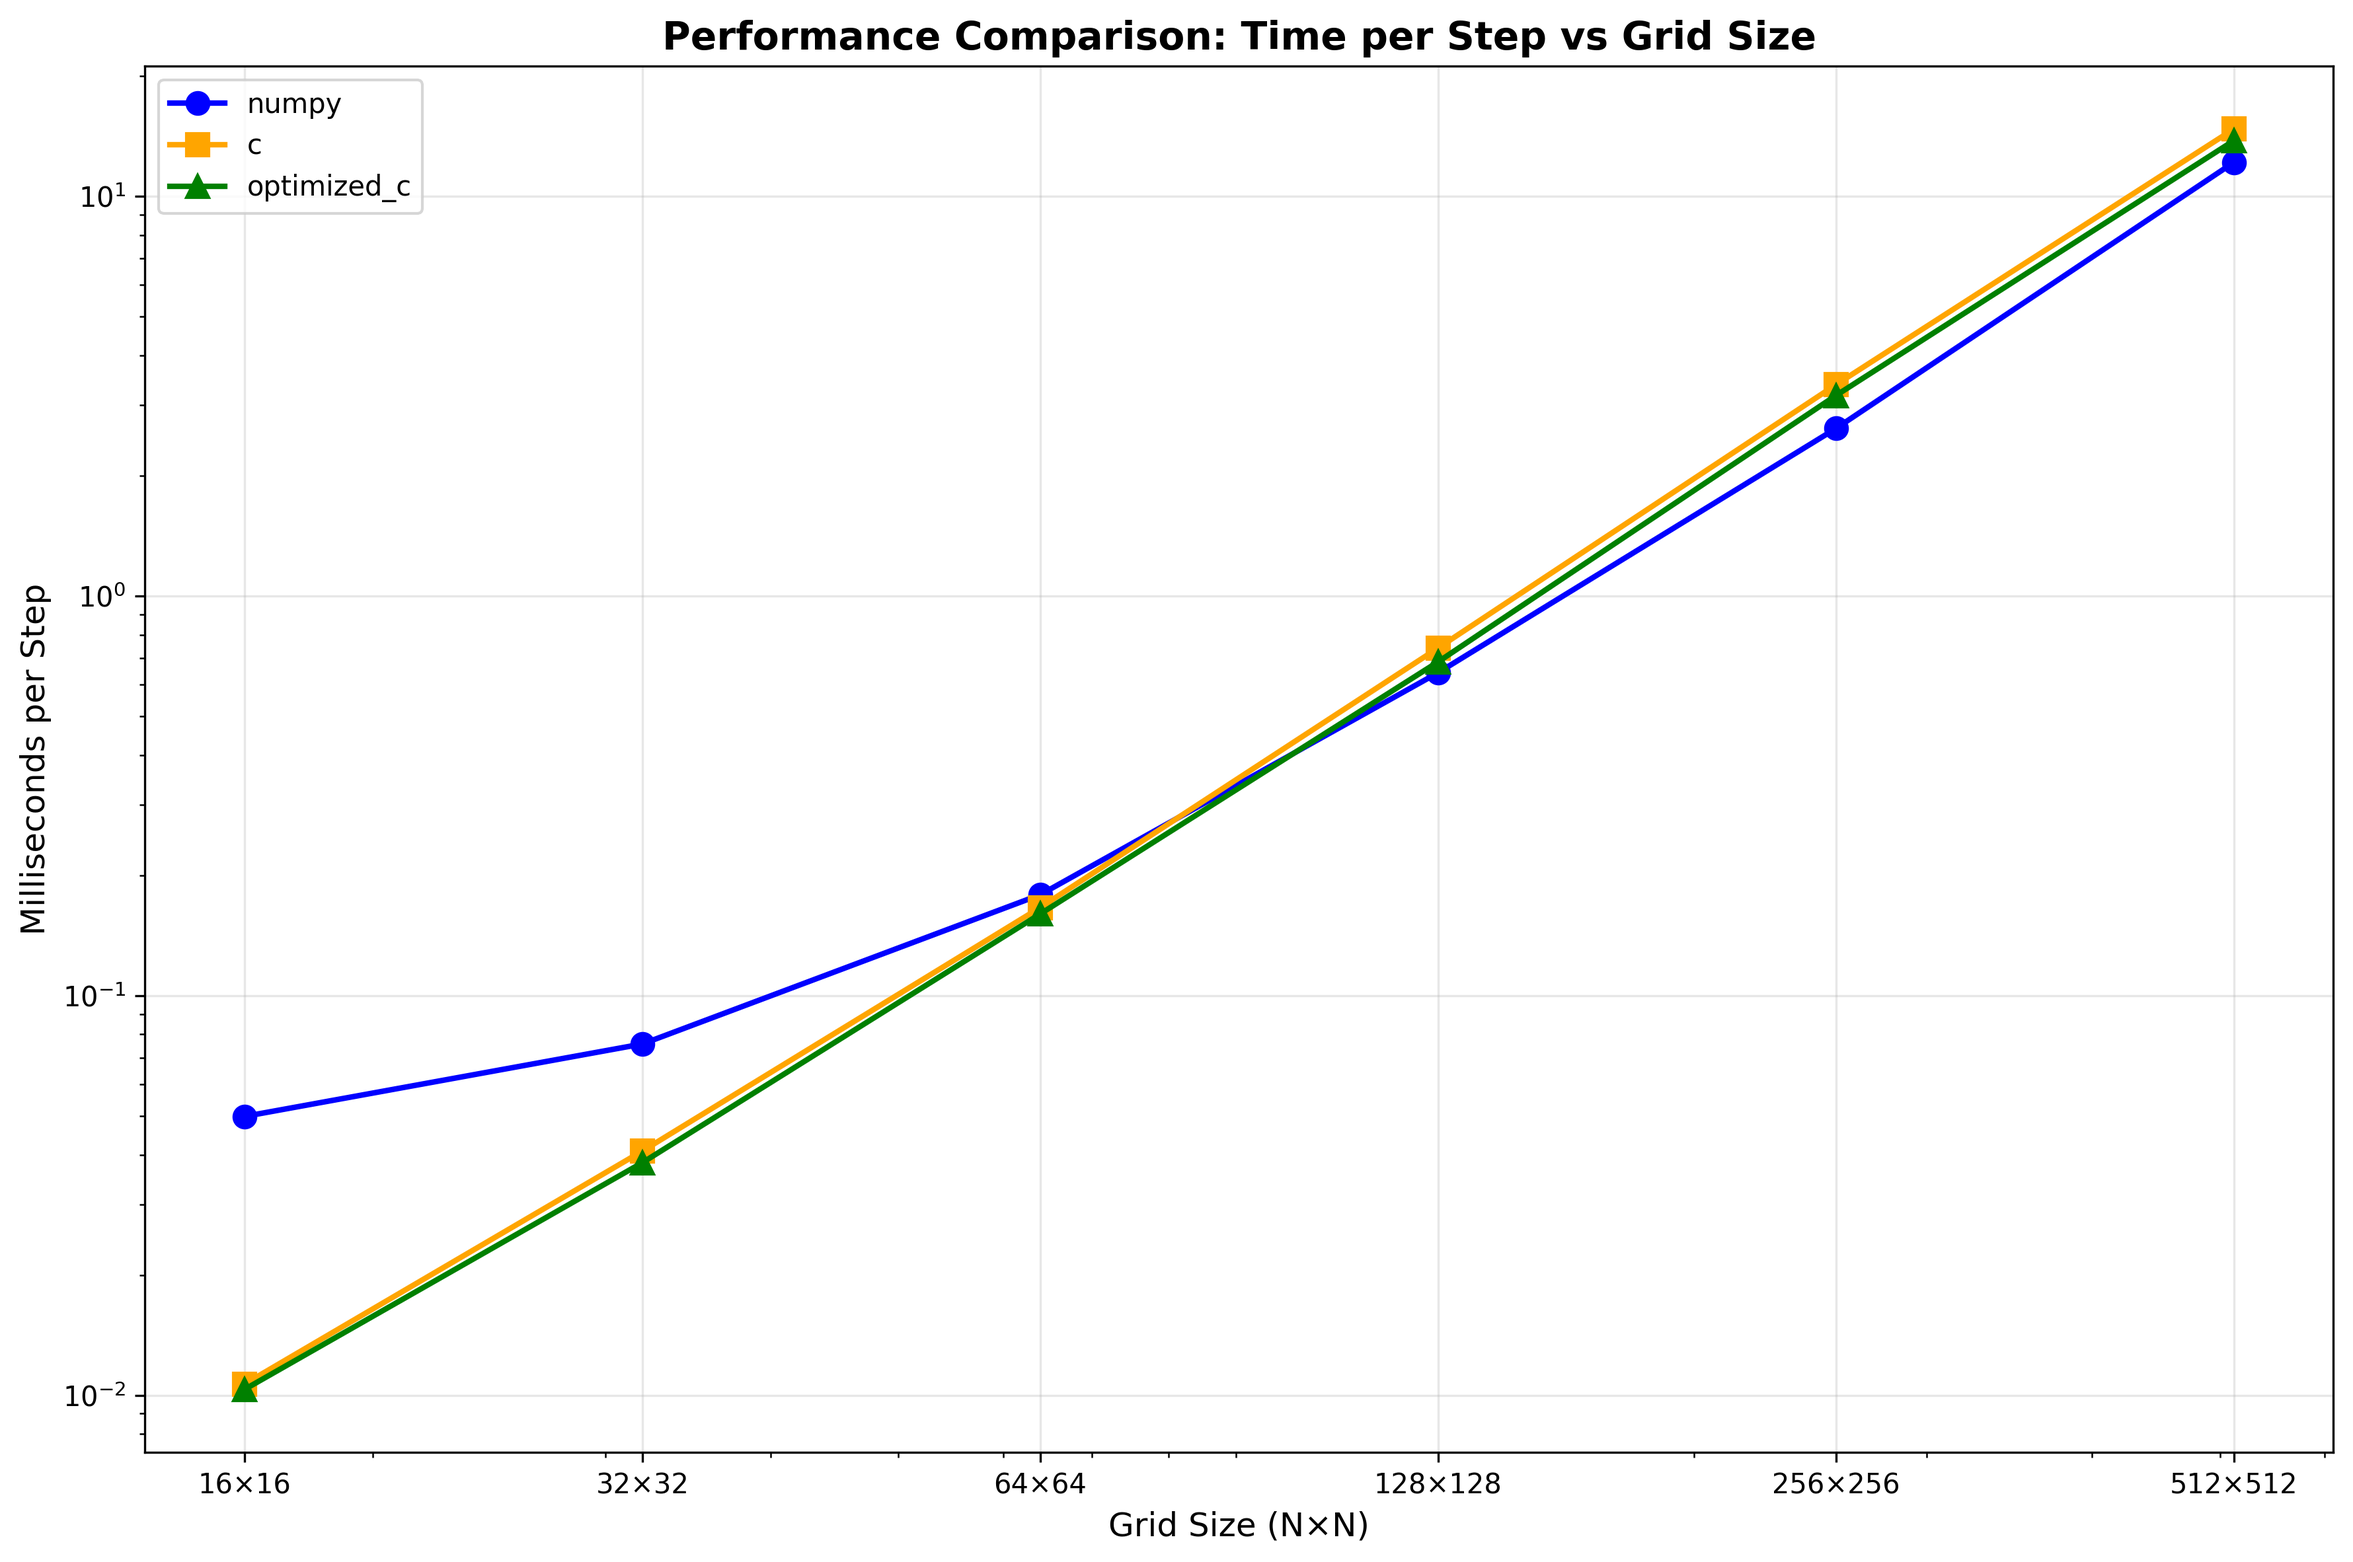
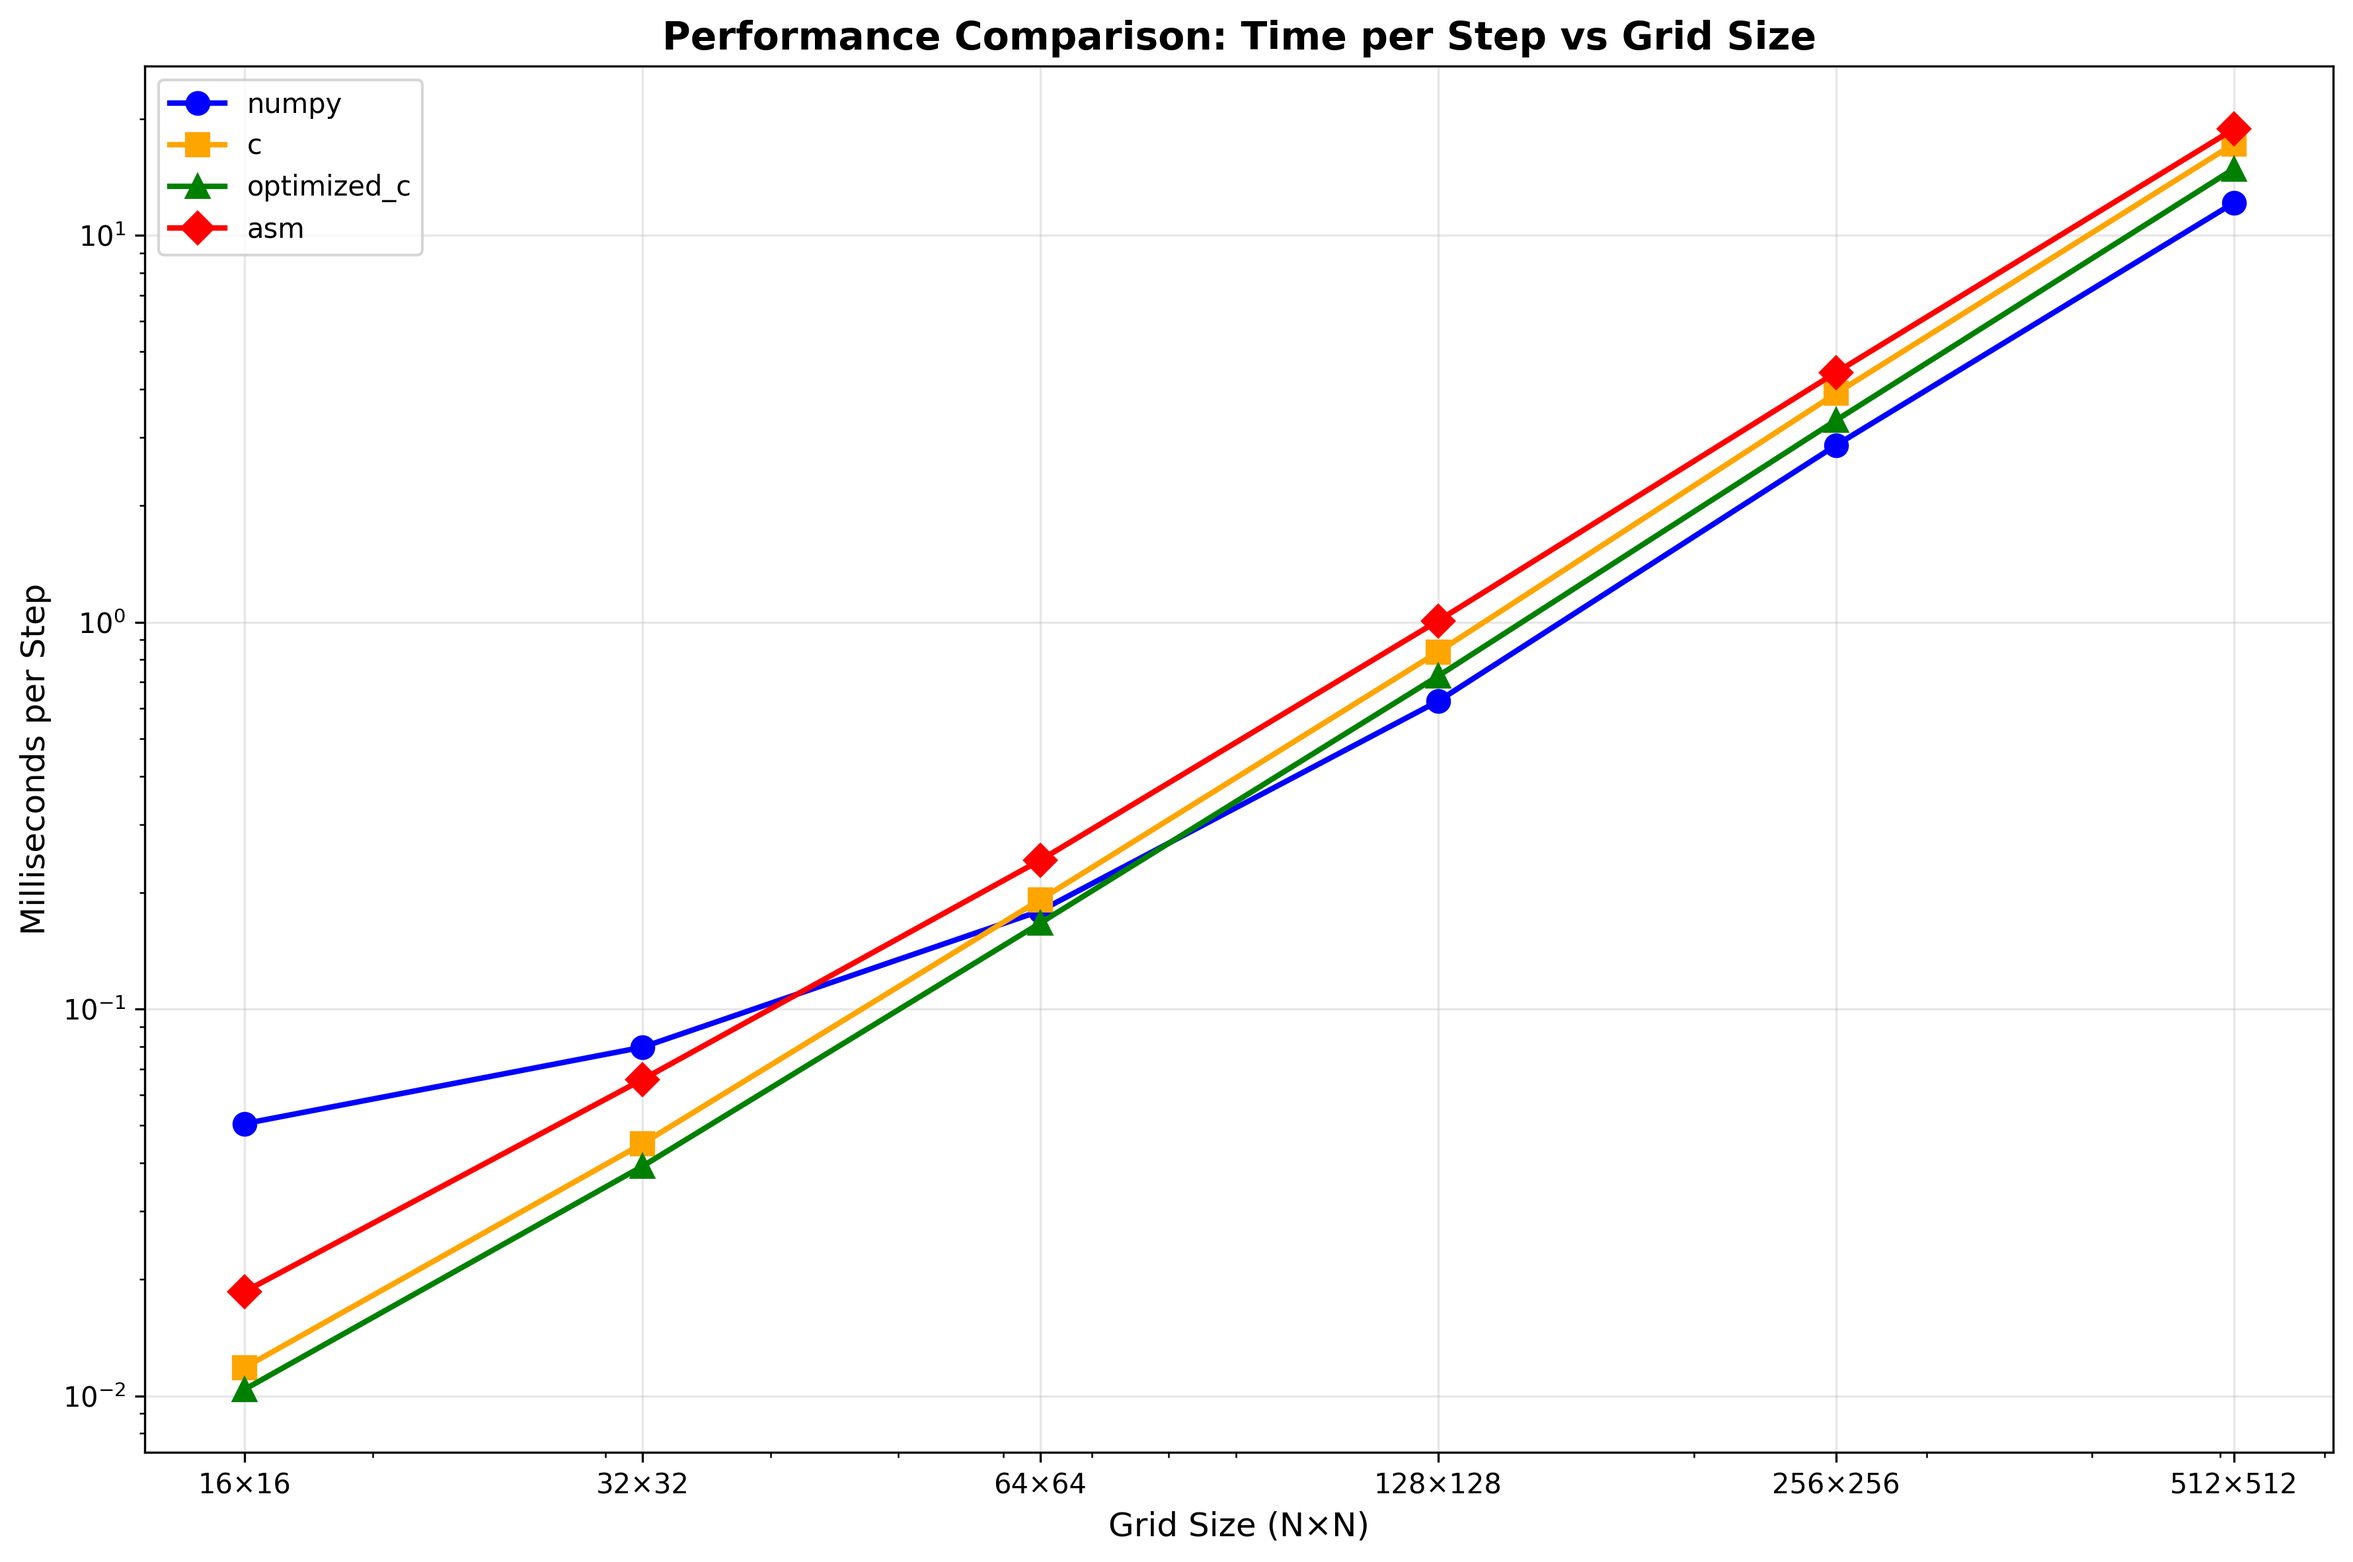
asm fft works

diff --git a/benchmark.py b/benchmark.py
@@ -13,7 +13,7 @@ from backends.wave_simulation_numpy import NumpyWaveSimulation2D
 from backends.wave_simulation_python import PythonWaveSimulation2D
 from backends.wave_simulation_c import CWaveSimulation2D
 from backends.wave_simulation_c_optimized import OptimizedCWaveSimulation2D
-
+from backends.wave_simulation_asm import ASMWaveSimulation2D
 
 def benchmark_backend(backend_name, size=64, steps=100):
     """Benchmark a specific backend"""
@@ -31,8 +31,11 @@ def benchmark_backend(backend_name, size=64, steps=100):
             sim = CWaveSimulation2D(size=size, domain_size=8.0, wave_speed=2.0, dt=0.02)
         elif backend_name == "optimized_c":
             sim = OptimizedCWaveSimulation2D(size=size, domain_size=8.0, wave_speed=2.0, dt=0.02)
+        elif backend_name == "asm":
+            sim = ASMWaveSimulation2D(size=size, domain_size=8.0, wave_speed=2.0, dt=0.02)
         else:
             raise ImportError(f"Unknown backend: {backend_name}")
+        
         init_time = time.time() - start_time
 
         # Add a wave source
@@ -76,7 +79,7 @@ def benchmark_backend(backend_name, size=64, steps=100):
 print("Wave Simulation Backend Performance Benchmark")
 print("=" * 50)
 
-backends = ["numpy", "c", "optimized_c"]
+backends = ["numpy", "c", "optimized_c", "asm"]
 sizes = [16, 32, 64, 128, 256, 512]
 steps = 20
 
@@ -133,9 +136,7 @@ for size in sizes:
         plot_sizes.append(size)
         for backend in backends:
             if backend in results[size]:
-                plot_data[backend]["steps_per_sec"].append(
-                    results[size][backend]["steps_per_second"]
-                )
+                plot_data[backend]["steps_per_sec"].append(results[size][backend]["steps_per_second"])
                 plot_data[backend]["ms_per_step"].append(results[size][backend]["time_per_step"])
             else:
                 # Use NaN for failed backends to maintain array alignment

diff --git a/backends/c_backend_asm.c b/backends/c_backend_asm.c
@@ -50,28 +50,6 @@ static Complex complex_mul(Complex a, Complex b)
     return result;
 }
 
-// Bit reversal for FFT (called from assembly)
-void bit_reverse(Complex *x, int n)
-{
-    int j = 0;
-    for (int i = 1; i < n; i++)
-    {
-        int bit = n >> 1;
-        while (j & bit)
-        {
-            j ^= bit;
-            bit >>= 1;
-        }
-        j ^= bit;
-        if (i < j)
-        {
-            Complex temp = x[i];
-            x[i] = x[j];
-            x[j] = temp;
-        }
-    }
-}
-
 // 2D FFT implementation
 static void fft2d(Complex *data, int rows, int cols, int inverse)
 {
